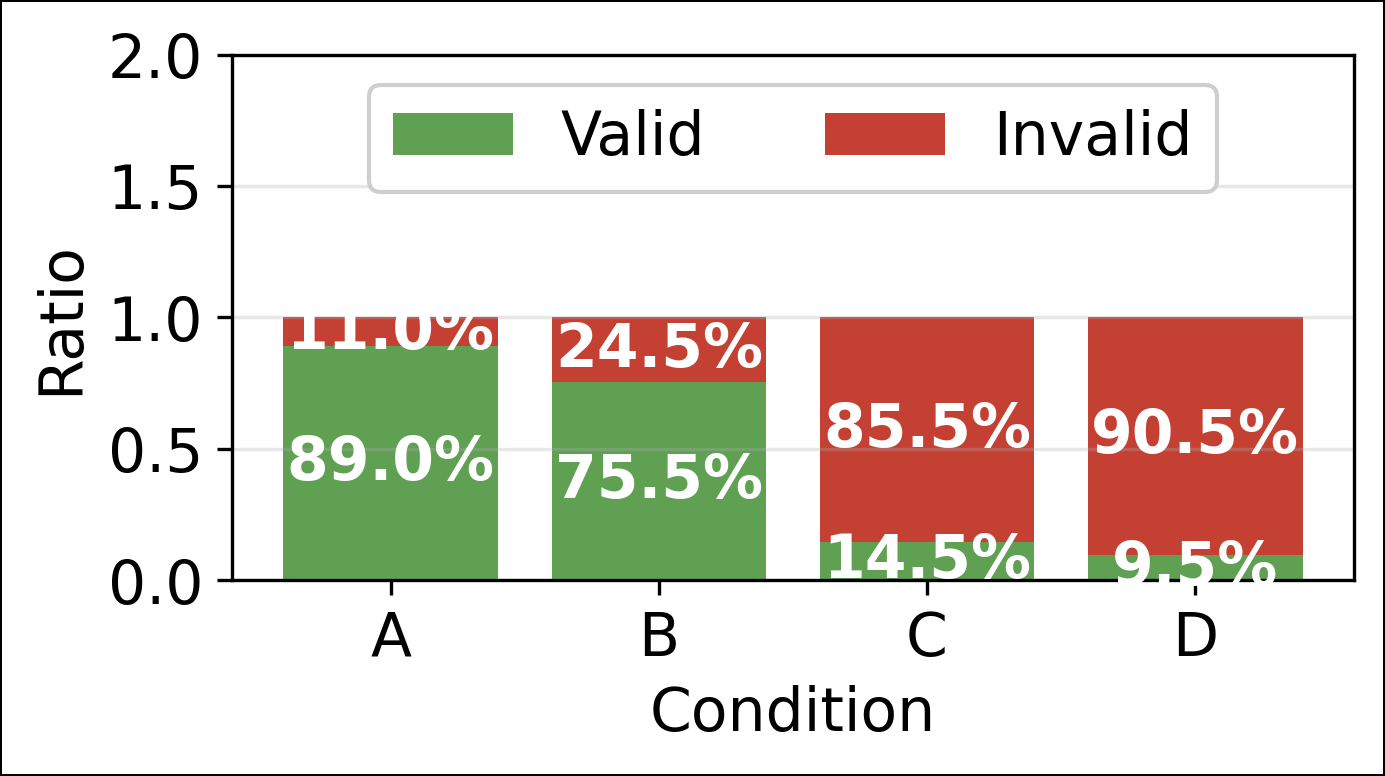
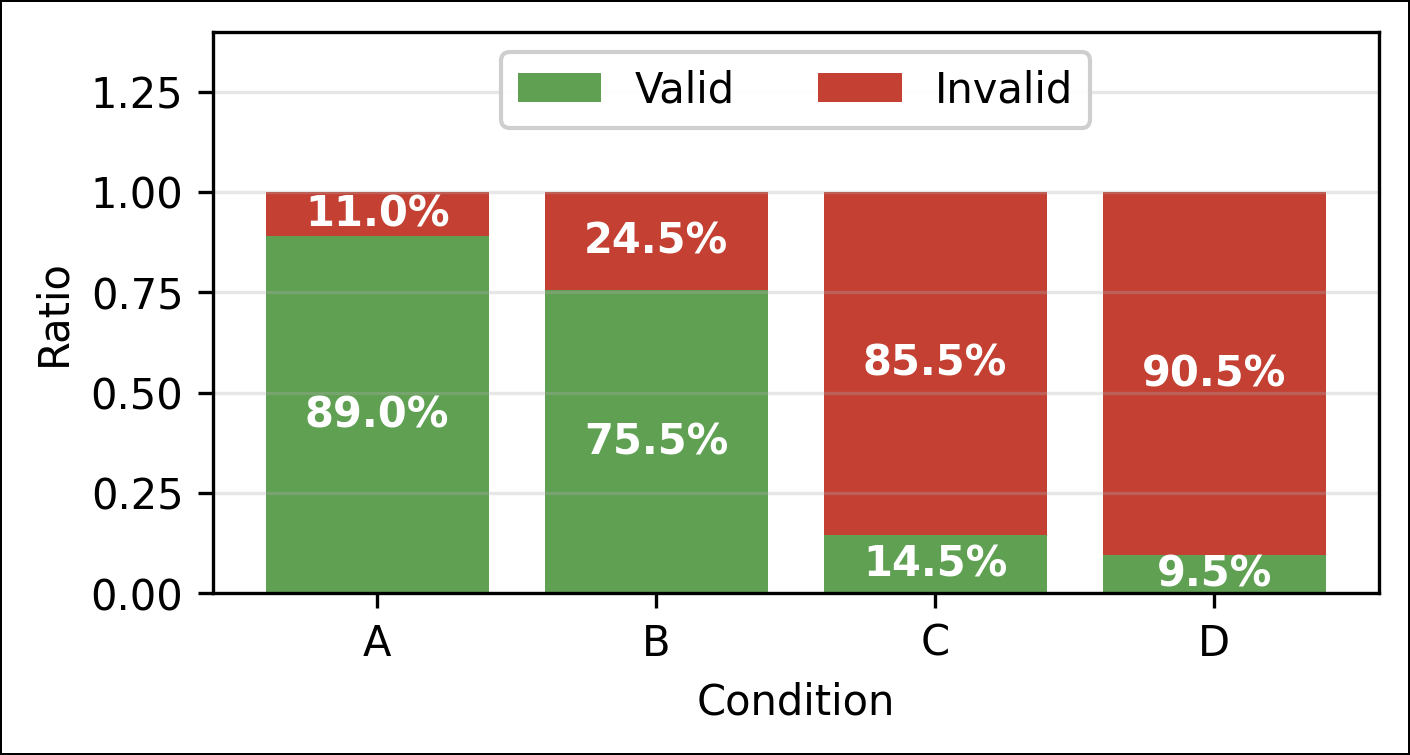
Fix overlapping text in fig3/fig3b and the empty panel in fig5(c)
Two figure defects, both present in the English figures under paper/figures as
well as the Chinese set, so both were generator bugs rather than translation
artifacts.

Root cause for the overlap. Commit 465b391 shrank the figure canvases and at the
same time raised the text. fig3 went from 8x5in to 4.7x2.66in while its labels
went from matplotlib's default ladder to a flat 14.4pt; fig3b went from 10x6in to
4.8x4.0in with the same 14.4/16.8 overrides. Text size in a figure is relative to
the canvas, so the two changes compound instead of cancelling: the text ended up
roughly 2.4x larger relative to the figure than before. fig3's in-bar percentage
labels then crossed the segment boundaries, and fig3b's two free-floating
annotation blocks sat on top of the bars. A comment in fig3b's own source already
recorded the symptom ("twelve horizontal labels cannot fit side by side at 14.4pt
once the figure is reduced to 60% width") and worked around it by rotating the
labels, but the annotations were left overlapping.

Fix: remove the explicit enlarged sizes in the four functions that took the bump
(analyze_paper.fig1_dual_bottleneck and fig3_validity_rate,
plot_per_round_delta_t.render_fig3b, analytical_fit_tau.render_figure), so they
return to the same default ladder the other eight published figures already use.
That both removes the overlap and makes the type scale uniform across the figure
set, which it was not before. Two layout constants that were changed alongside the
[…]

Changed region(s): [[0.031, 0.0305, 0.9935, 0.9444]]

diff --git a/scripts/detect_tau_c.py b/scripts/detect_tau_c.py
@@ -503,7 +503,7 @@ def render_figure_within(results_b: dict, results_d: dict, out_png: Path) -> Non
     # (every bar in (c) is zero), so (c) only carries the tau_c vertical lines
     # and gets 45% of a full panel's height.
     fig = plt.figure(figsize=(6.5, 8.3))
-    gs = fig.add_gridspec(3, 1, height_ratios=[1, 1, 0.45], hspace=0.45)
+    gs = fig.add_gridspec(3, 1, height_ratios=[1, 1, 0.60], hspace=0.45)
     ax_a = fig.add_subplot(gs[0, 0])
     ax_b = fig.add_subplot(gs[1, 0])
     ax_c = fig.add_subplot(gs[2, 0])
@@ -542,29 +542,54 @@ def render_figure_within(results_b: dict, results_d: dict, out_png: Path) -> Non
     ax.legend(fontsize=11, loc="lower right")
     ax.grid(True, alpha=0.3)
 
-    # 子图 3：退化标记 + τ_c（横跨下排）
+    # 子图 3：退化标记 + τ_c
+    #
+    # 在 within-τ 判据下没有任何 τ 触发退化，因此 B/D 的指示量在八个 τ 上全是 0。
+    # 旧版画的是零高柱状图：柱子不可见，只留下一个图例和一对面板，看起来像绘制失败。
+    # 改为把 0 值显式画成标记点（两个条件在 x 上微微错开，数值本身不变），
+    # 并写明"八个 τ 全为 0"，让"没有退化"这个结论可见而不是缺席。
     ax = ax_c
     taus = [r["tau"] for r in results_b["table"]]
     b_deg = [1 if r["degenerate"] else 0 for r in results_b["table"]]
     d_deg = [1 if r["degenerate"] else 0 for r in results_d["table"]]
-    width = 0.02
-    ax.bar([t - width/2 for t in taus], b_deg, width=width,
-           label="B degenerate", color="#cc3333")
-    ax.bar([t + width/2 for t in taus], d_deg, width=width,
-           label="D degenerate", color="#3366cc")
+    dx = 0.012
+    ax.plot([t - dx for t in taus], b_deg, marker="o", markersize=6,
+            linestyle="none", color="#cc3333", label="B degenerate")
+    ax.plot([t + dx for t in taus], d_deg, marker="s", markersize=6,
+            linestyle="none", color="#3366cc", label="D degenerate")
     if results_b["tau_c"] is not None:
-        ax.axvline(results_b["tau_c"], color="#cc3333", linestyle=":",
-                   label=f"τ_c(B)={results_b['tau_c']}")
+        ax.axvline(results_b["tau_c"], color="#cc3333", linestyle=":")
     if results_d["tau_c"] is not None:
-        ax.axvline(results_d["tau_c"], color="#3366cc", linestyle=":",
-                   label=f"τ_c(D)={results_d['tau_c']}")
+        ax.axvline(results_d["tau_c"], color="#3366cc", linestyle=":")
     ax.set_xlabel("Judge reliability τ", fontsize=11)
     ax.set_ylabel("Degenerate (1=yes, 0=no)", fontsize=11)
     ax.set_title("(c)", fontsize=12)
+    # 显式给 y 轴留出 0/1 两个刻度，否则全 0 数据会把 ylim 压成一条线。
+    # 上限 1.60 让图例、τ_c 标注、说明文字各占一条横带，互不遮挡。
+    ax.set_ylim(-0.30, 1.60)
     ax.set_yticks([0, 1])
+    ax.set_xlim(0.50, 1.05)
+    ax.axhline(0.0, color="#888888", linewidth=0.8, zorder=0)
     ax.tick_params(labelsize=11)
-    ax.legend(fontsize=11, loc="upper left")
+    ax.legend(fontsize=11, loc="upper left", ncol=2, framealpha=0.95)
     ax.grid(True, alpha=0.3)
+    # τ_c 直接标在线上，不再占用图例（两条线同值，两个 legend 条目是冗余的）。
+    tc_txt = []
+    if results_b["tau_c"] is not None:
+        tc_txt.append(f"{results_b['tau_c']}")
+    if results_d["tau_c"] is not None and results_d["tau_c"] != results_b["tau_c"]:
+        tc_txt.append(f"{results_d['tau_c']}")
+    if tc_txt:
+        ax.text(0.98, 0.88, "τ_c(B) = τ_c(D) = " + " / ".join(tc_txt),
+                transform=ax.transAxes, ha="right", va="center",
+                fontsize=11, color="#333333")
+    n_tau = len(taus)
+    ax.text(0.5, 0.52,
+            f"no τ degenerates: the indicator is 0 at all {n_tau} τ values "
+            f"for both B and D\n"
+            f"(within-τ criterion: late/early Δt < 1.5, correct-rate ratio > 0.7)",
+            transform=ax.transAxes, ha="center", va="center",
+            fontsize=10, color="#333333")
 
     # gridspec 已控制子图间距。tight_layout 与 gridspec + suptitle 不兼容，
     # 会抛 UserWarning 并可能覆盖 hspace，因此改为显式边距。

diff --git a/scripts/analyze_paper.py b/scripts/analyze_paper.py
@@ -353,25 +353,25 @@ def fig1_dual_bottleneck(out_png: Path,
                                                 edgecolor="#cc9933")
     ax.add_patch(gen_low)
     ax.text(0.85, 0.15, "Safe Zone\n(formal anchor\nsustains evolution)",
-            ha="center", va="center", fontsize=14.4, color="#003366")
+            ha="center", va="center", color="#003366")
     # Kept inside xlim: at 0.35 this label sat outside the axes and collided
     # with the y-axis label once the figure was reduced to 60% width.
     ax.text(0.6, 0.55, "Judge-Noise\nCollapse\n(τ ↓ → Δ_t ↑)",
-            ha="center", va="center", fontsize=14.4, color="#660000")
+            ha="center", va="center", color="#660000")
     ax.text(0.85, 0.65, "Generation\nBottleneck\n(LLM can't author\nL2+ tasks)",
-            ha="center", va="center", fontsize=14.4, color="#664400")
-    # 箭头标签
-    ax.annotate("τ ↓", xy=(0.6, 0.95), fontsize=16.8, color="#cc3333", ha="center")
-    ax.annotate("τ ↑", xy=(0.85, 0.95), fontsize=16.8, color="#3366cc", ha="center")
+            ha="center", va="center", color="#664400")
+    # 箭头标签。y 从 0.95 降到 0.90：字号还原为默认后，右上角图例的下沿约在
+    # y=0.93，0.95 会把"τ ↑"压在图例里。
+    ax.annotate("τ ↓", xy=(0.58, 0.90), color="#cc3333", ha="center")
+    ax.annotate("τ ↑", xy=(0.80, 0.90), color="#3366cc", ha="center")
     if tau_c_b is not None and tau_c_d is not None:
         ax.axvline(min(tau_c_b, tau_c_d), color="purple", linestyle="--", alpha=0.7,
                    label=f"τ_c ≈ {min(tau_c_b, tau_c_d):.2f}")
-        ax.legend(loc="upper right", fontsize=14.4)
+        ax.legend(loc="upper right")
     ax.set_xlim(0.5, 1.0)
     ax.set_ylim(0.0, 1.0)
-    ax.set_xlabel("Judge Reliability τ", fontsize=14.4)
-    ax.set_ylabel("Invalid Rate", fontsize=14.4)
-    ax.tick_params(labelsize=14.4)
+    ax.set_xlabel("Judge Reliability τ")
+    ax.set_ylabel("Invalid Rate")
     ax.grid(True, alpha=0.2)
     fig.tight_layout()
     out_png.parent.mkdir(parents=True, exist_ok=True)
@@ -438,16 +438,19 @@ def fig3_validity_rate(records: list[dict], out_png: Path) -> bool:
     ax.bar(x, invalid_rates, bottom=valid_rates, label="Invalid", color="#c44033")
     for i, cond in enumerate(conds):
         ax.text(i, valid_rates[i] / 2, f"{valid_rates[i]*100:.1f}%",
-                ha="center", va="center", color="white", fontweight="bold", fontsize=14.4)
+                ha="center", va="center", color="white", fontweight="bold")
         ax.text(i, valid_rates[i] + invalid_rates[i] / 2, f"{invalid_rates[i]*100:.1f}%",
-                ha="center", va="center", color="white", fontweight="bold", fontsize=14.4)
+                ha="center", va="center", color="white", fontweight="bold")
     ax.set_xticks(x)
     ax.set_xticklabels(conds)
-    ax.set_xlabel("Condition", fontsize=14.4)
-    ax.set_ylabel("Ratio", fontsize=14.4)
-    ax.tick_params(labelsize=14.4)
-    ax.legend(loc="upper center", ncol=2, fontsize=14.4, framealpha=0.95)
-    ax.set_ylim(0, 2.00)
+    ax.set_xlabel("Condition")
+    ax.set_ylabel("Ratio")
+    ax.legend(loc="upper center", ncol=2, framealpha=0.95)
+    # Bars reach 1.0; ylim only needs enough headroom for the two-column legend.
+    # The previous 2.00 was chosen for the 14.4pt legend and squeezed the bars
+    # into the lower half of the axes, which pushed the in-bar percentage labels
+    # across the segment boundaries (the visible overlap in fig3).
+    ax.set_ylim(0, 1.40)
     ax.grid(True, alpha=0.3, axis="y")
     fig.tight_layout()
     out_png.parent.mkdir(parents=True, exist_ok=True)

diff --git a/scripts/plot_per_round_delta_t.py b/scripts/plot_per_round_delta_t.py
@@ -83,32 +83,27 @@ def render_fig3b(records: list[dict], out_png: Path) -> None:
                     h / 2 if inside else h + 2,
                     f"{h:.1f}%", ha="center",
                     va="center" if inside else "bottom", rotation=90,
-                    fontsize=14.4, color="white" if inside else colors[cond])
+                    color="white" if inside else colors[cond])
 
     ax.set_xticks(x)
     ax.set_xticklabels(["L1", "L2", "L3"])
-    ax.set_xlabel("Difficulty Level", fontsize=14.4)
-    ax.set_ylabel("Valid Task Rate (%)", fontsize=14.4)
-    ax.tick_params(labelsize=14.4)
+    ax.set_xlabel("Difficulty Level")
+    ax.set_ylabel("Valid Task Rate (%)")
     ax.set_ylim(0, 150)
     ax.set_xlim(-0.55, 2.55)
     ax.grid(True, alpha=0.3, axis="y")
-    # 关键注释
+    # 关键注释：两条阈值线由 legend 标注，说明文字交给图注。
+    # 原先这里还有两块自由浮动的 ax.text（L1 高有效 / L2/L3 极低有效）。
+    # 465b391 把画布从 10x6 缩到 4.8x4.0 之后，它们无论放在哪里都会压住柱子：
+    # 柱顶在 100/150，legend 占据 100-150 的空档，两块两行文字没有可用空间。
+    # 这两句的内容已在 (a) 两条阈值线的 legend 标签和论文图注中表达，故删除。
     ax.axhline(75, color="#006600", linestyle=":", alpha=0.6,
                label="L1 ≥75%")
     ax.axhline(15, color="#aa0000", linestyle=":", alpha=0.6,
                label="L2/L3 ≤15%")
-    ax.text(0.10, 0.56, "L1: high validity\n(simple LIA, LLM succeeds)",
-            transform=ax.transAxes, ha="left", va="center",
-            fontsize=14.4, color="#006600",
-            bbox=dict(facecolor="white", alpha=0.85, edgecolor="none", pad=2))
-    ax.text(0.98, 0.20, "L2/L3: very low validity\n(BV/Array fail ~85-100%)",
-            transform=ax.transAxes, ha="right", va="center",
-            fontsize=14.4, color="#aa0000",
-            bbox=dict(facecolor="white", alpha=0.85, edgecolor="none", pad=2))
     # Legend inside the axes so it costs neither width nor height.
     ax.legend(loc="upper left", bbox_to_anchor=(0.0, 1.0), ncol=2,
-              fontsize=14.4, framealpha=0.95, borderaxespad=0.15,
+              framealpha=0.95, borderaxespad=0.15,
               columnspacing=1.0, handletextpad=0.5)
     fig.tight_layout()
     out_png.parent.mkdir(parents=True, exist_ok=True)

diff --git a/paper/main.tex b/paper/main.tex
@@ -736,8 +736,8 @@ This appendix collects the full figure set for reference. Figures~\ref{fig:delta
   \caption{The $\tau$-gradient sweep on the real API: 8 $\tau$ values $\times$ 2 conditions (B/D)
   $\times$ 50 rounds = 800 rounds. Under the within-$\tau$ degeneration criterion no $\tau$ value
   degenerates, so the reported $\tau_c = 0.55$ is the lower edge of the swept grid and should be
-  read as an upper bound, not as the system's tolerance. Panel (c) is empty because no $\tau$ value
-  degenerates under the within-$\tau$ criterion; the two vertical lines mark
+  read as an upper bound, not as the system's tolerance. Panel (c) plots the degeneration
+  indicator: it is 0 at all eight $\tau$ values for both conditions, and the two vertical lines mark
   $\tau_c(B) = \tau_c(D) = 0.55$.}
   \label{fig:tau_c_curve_appendix}
 \end{figure*}

diff --git a/scripts/analytical_fit_tau.py b/scripts/analytical_fit_tau.py
@@ -214,7 +214,7 @@ def render_figure(rows: list[dict], mae: dict, rmse: dict, out_png: Path,
 
     ax.set_xlabel(r"Judge reliability $\tau$")
     ax.set_ylabel(r"$\Delta_t$")
-    ax.legend(loc="upper right", fontsize=14.4)
+    ax.legend(loc="upper right")
     ax.grid(True, alpha=0.3)
     ax.set_xlim(0.52, 1.02)
     ax.set_ylim(-0.02, 0.42)
@@ -227,7 +227,7 @@ def render_figure(rows: list[dict], mae: dict, rmse: dict, out_png: Path,
         f"RMSE(D) = {rmse['D']:.4f}\n"
         f"data: {mode}",
         xy=(0.035, 0.045), xycoords="axes fraction",
-        fontsize=14.4, color="#003366", ha="left", va="bottom",
+        color="#003366", ha="left", va="bottom",
         bbox=dict(boxstyle="round", facecolor="#eef4fb", alpha=0.95),
     )
 
